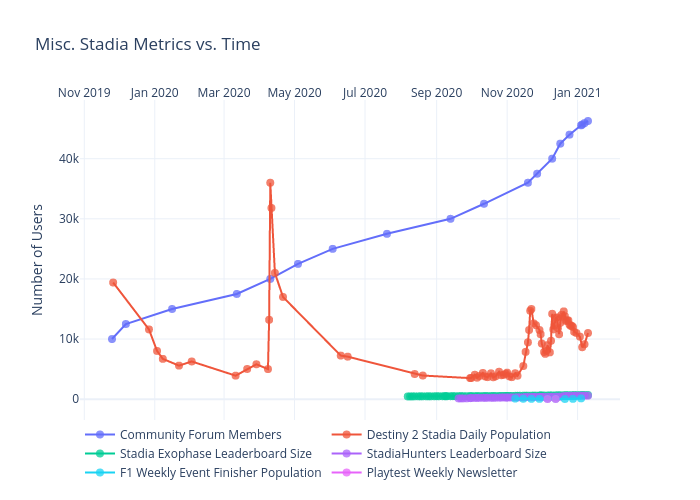
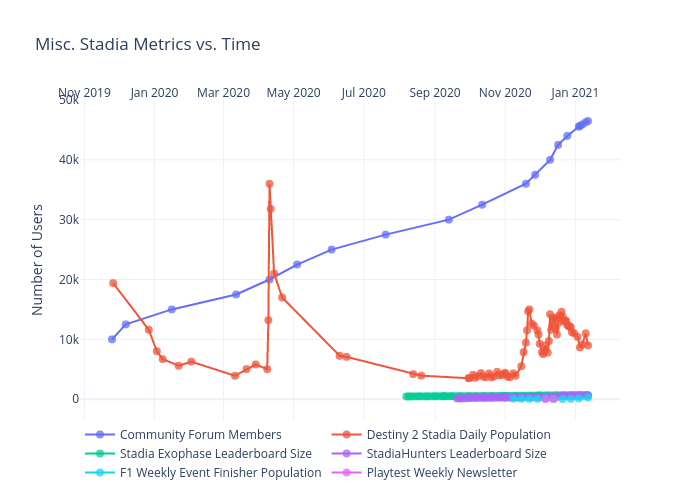
Add files via upload

diff --git a/misc/figure.js b/misc/figure.js
@@ -268,7 +268,8 @@ var figure = {
                 "45550",
                 "45670",
                 "45919",
-                "46270"
+                "46270",
+                "46492"
             ],
             "marker": {
                 "size": 8,
@@ -546,7 +547,8 @@ var figure = {
                 "",
                 "8640",
                 "9140",
-                "11000"
+                "11000",
+                "8980"
             ],
             "marker": {
                 "size": 8,
@@ -823,6 +825,7 @@ var figure = {
                 "681",
                 "",
                 "688",
+                "694",
                 "694",
                 "694"
             ],
@@ -1102,7 +1105,8 @@ var figure = {
                 "",
                 "573",
                 "578",
-                "580"
+                "580",
+                "589"
             ],
             "marker": {
                 "size": 8,
@@ -1377,7 +1381,11 @@ var figure = {
                 "",
                 "",
                 "",
-                "127"
+                "127",
+                null,
+                null,
+                null,
+                "279"
             ],
             "marker": {
                 "size": 8,
@@ -1651,8 +1659,8 @@ var figure = {
             "side": "top",
             "type": "date",
             "range": [
-                "2019-10-30 12:37:48.5488",
-                "2021-02-04 11:22:11.4512"
+                "2019-10-30 09:39:44.4156",
+                "2021-02-06 14:20:15.5844"
             ],
             "title": {
                 "text": ""
@@ -1662,8 +1670,8 @@ var figure = {
         "yaxis": {
             "type": "linear",
             "range": [
-                -3281.7778577598624,
-                49578.777857759866
+                -3297.6623956233807,
+                49816.66239562338
             ],
             "title": {
                 "text": "Number of Users"
